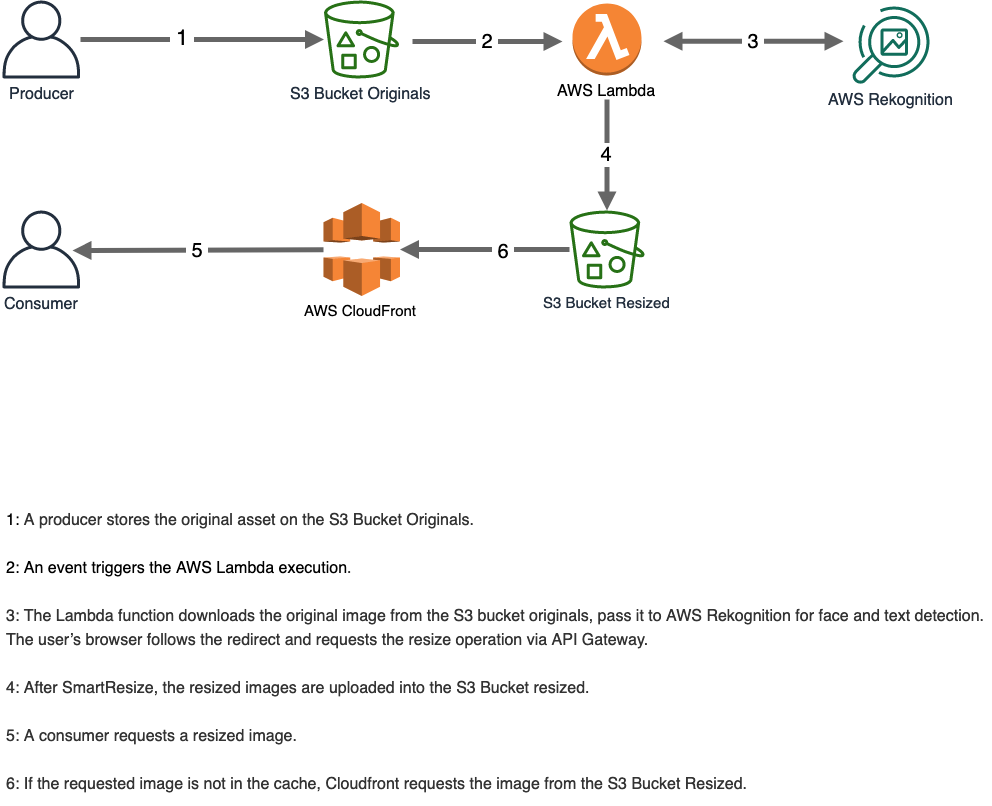
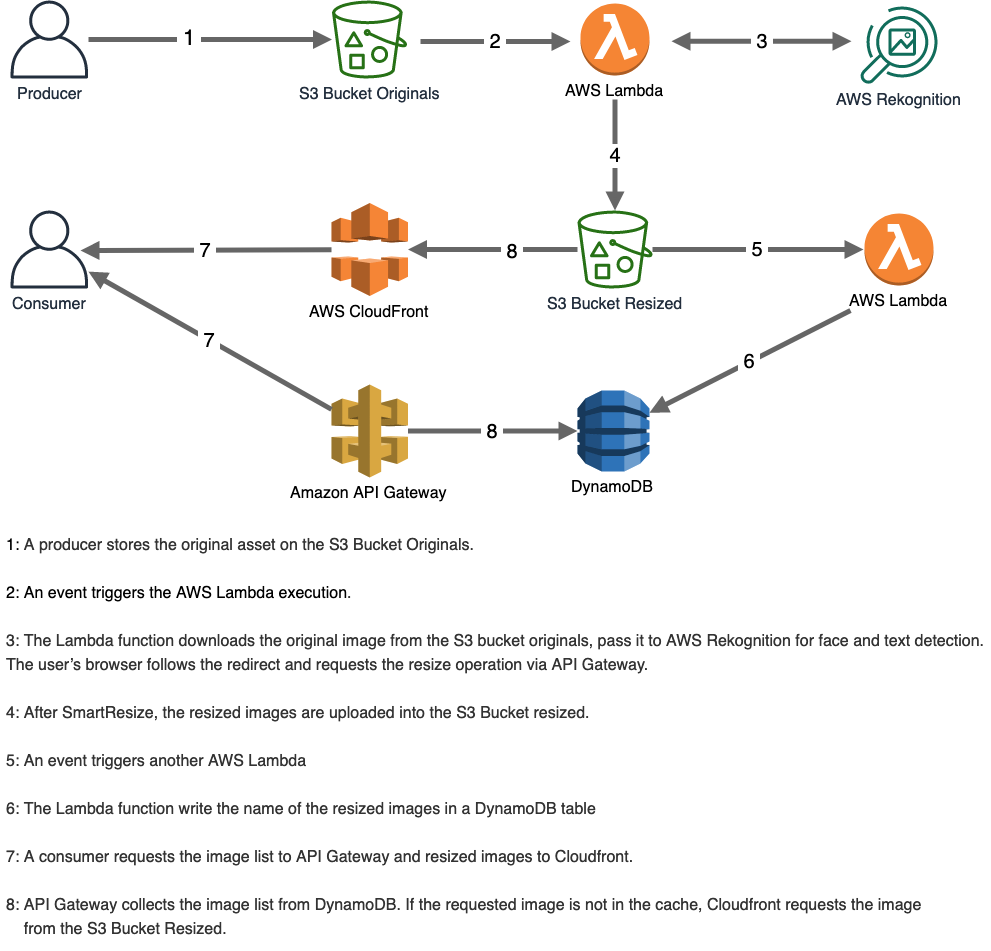
add dynamoDB and API GW to manage picture list

diff --git a/www/index.html b/www/index.html
@@ -10,7 +10,8 @@
 </head>
 
 <body onload="listImages()">
-  <script src="https://sdk.amazonaws.com/js/aws-sdk-2.747.0.min.js"></script>  
+  <script src="https://sdk.amazonaws.com/js/aws-sdk-2.747.0.min.js"></script>
+  <script src="apiendpoint.js"></script> 
   <script src="js/scripts.js"></script>
   
   <center><p>1st row is smart resize, 2nd row is centered resize<br>Click on an image to copy its url in the clipboard.</p>

diff --git a/www/js/scripts.js b/www/js/scripts.js
@@ -5,9 +5,9 @@
 
 function listImages(){
 
-    const fetchPromise = fetch(location.href + "picList.json");
+    const fetchPromise = fetch(window.apiurl);
     fetchPromise.then(response => {
-        console.log("1");
+        console.log(response);
         return response.json();
     }).then(myJson => {
         console.log("2");

diff --git a/ReferenceImage/ReferenceImage.py b/ReferenceImage/ReferenceImage.py
@@ -1,0 +1,39 @@
+import json
+import os
+import boto3
+from botocore.exceptions import ClientError
+import logging
+logger = logging.getLogger()
+logger.setLevel(logging.INFO)
+
+def lambda_handler(event, context):
+    """If this lambda is executed, it means that the resized image has been stored in the website bucket """
+
+    try:
+        #here we just need to store the image name in the dynamoDB table
+
+        #first of all, we log the event
+        logger.info(event)
+        myClient = boto3.client('dynamodb')
+
+        for myRecord in event['Records']:
+
+            myObjectName = myRecord['s3']['object']['key']
+            
+            myImageName = myObjectName.split('/').pop()
+                
+            #we write the image name in dynamoDB
+            myResponse = myClient.put_item(
+                TableName=os.environ['DBTABLE'],
+                Item={
+                'Image': {'S':myImageName}})
+
+        logger.info("end")
+        return 200
+
+    except ClientError as ex:
+        raise ex
+
+    except Exception as e:
+        #if anything goes wrong, we return an error that will be mapped by API GW
+        raise Exception("[NOTFOUND] "+str(e))

diff --git a/ImageResize/ImageResize.py b/ImageResize/ImageResize.py
@@ -59,12 +59,15 @@ def lambda_handler(event, context):
                 myImagePathCenter = aws_Helper.putImageInBucket(myResizedImageCentered,os.environ['BUCKET'],myOutputPathCentered,myImageName)
                 myImagePath = aws_Helper.putImageInBucket(myResizedImage,os.environ['BUCKET'],myOutputPath,myImageName)
 
+            #at last we copy the original image as is
+            aws_Helper.putImageInBucket(myOriginalImage,os.environ['BUCKET'],'orig',myImageName)
             #we get the json from S3
-            myPicList = aws_Helper.getJsonFromBucket(os.environ['BUCKET'],"picList.json")
+            #myPicList = aws_Helper.getJsonFromBucket(os.environ['BUCKET'],"picList.json")
 
             #we update the json
-            myPicList['pics'].append(myImageName)
-            aws_Helper.putJsonInBucket(myPicList,os.environ['BUCKET'],"picList.json")
+            #myPicList['pics'].append(myImageName)
+            #aws_Helper.putJsonInBucket(myPicList,os.environ['BUCKET'],"picList.json")
+
 
         logger.info("end")
         return 200
